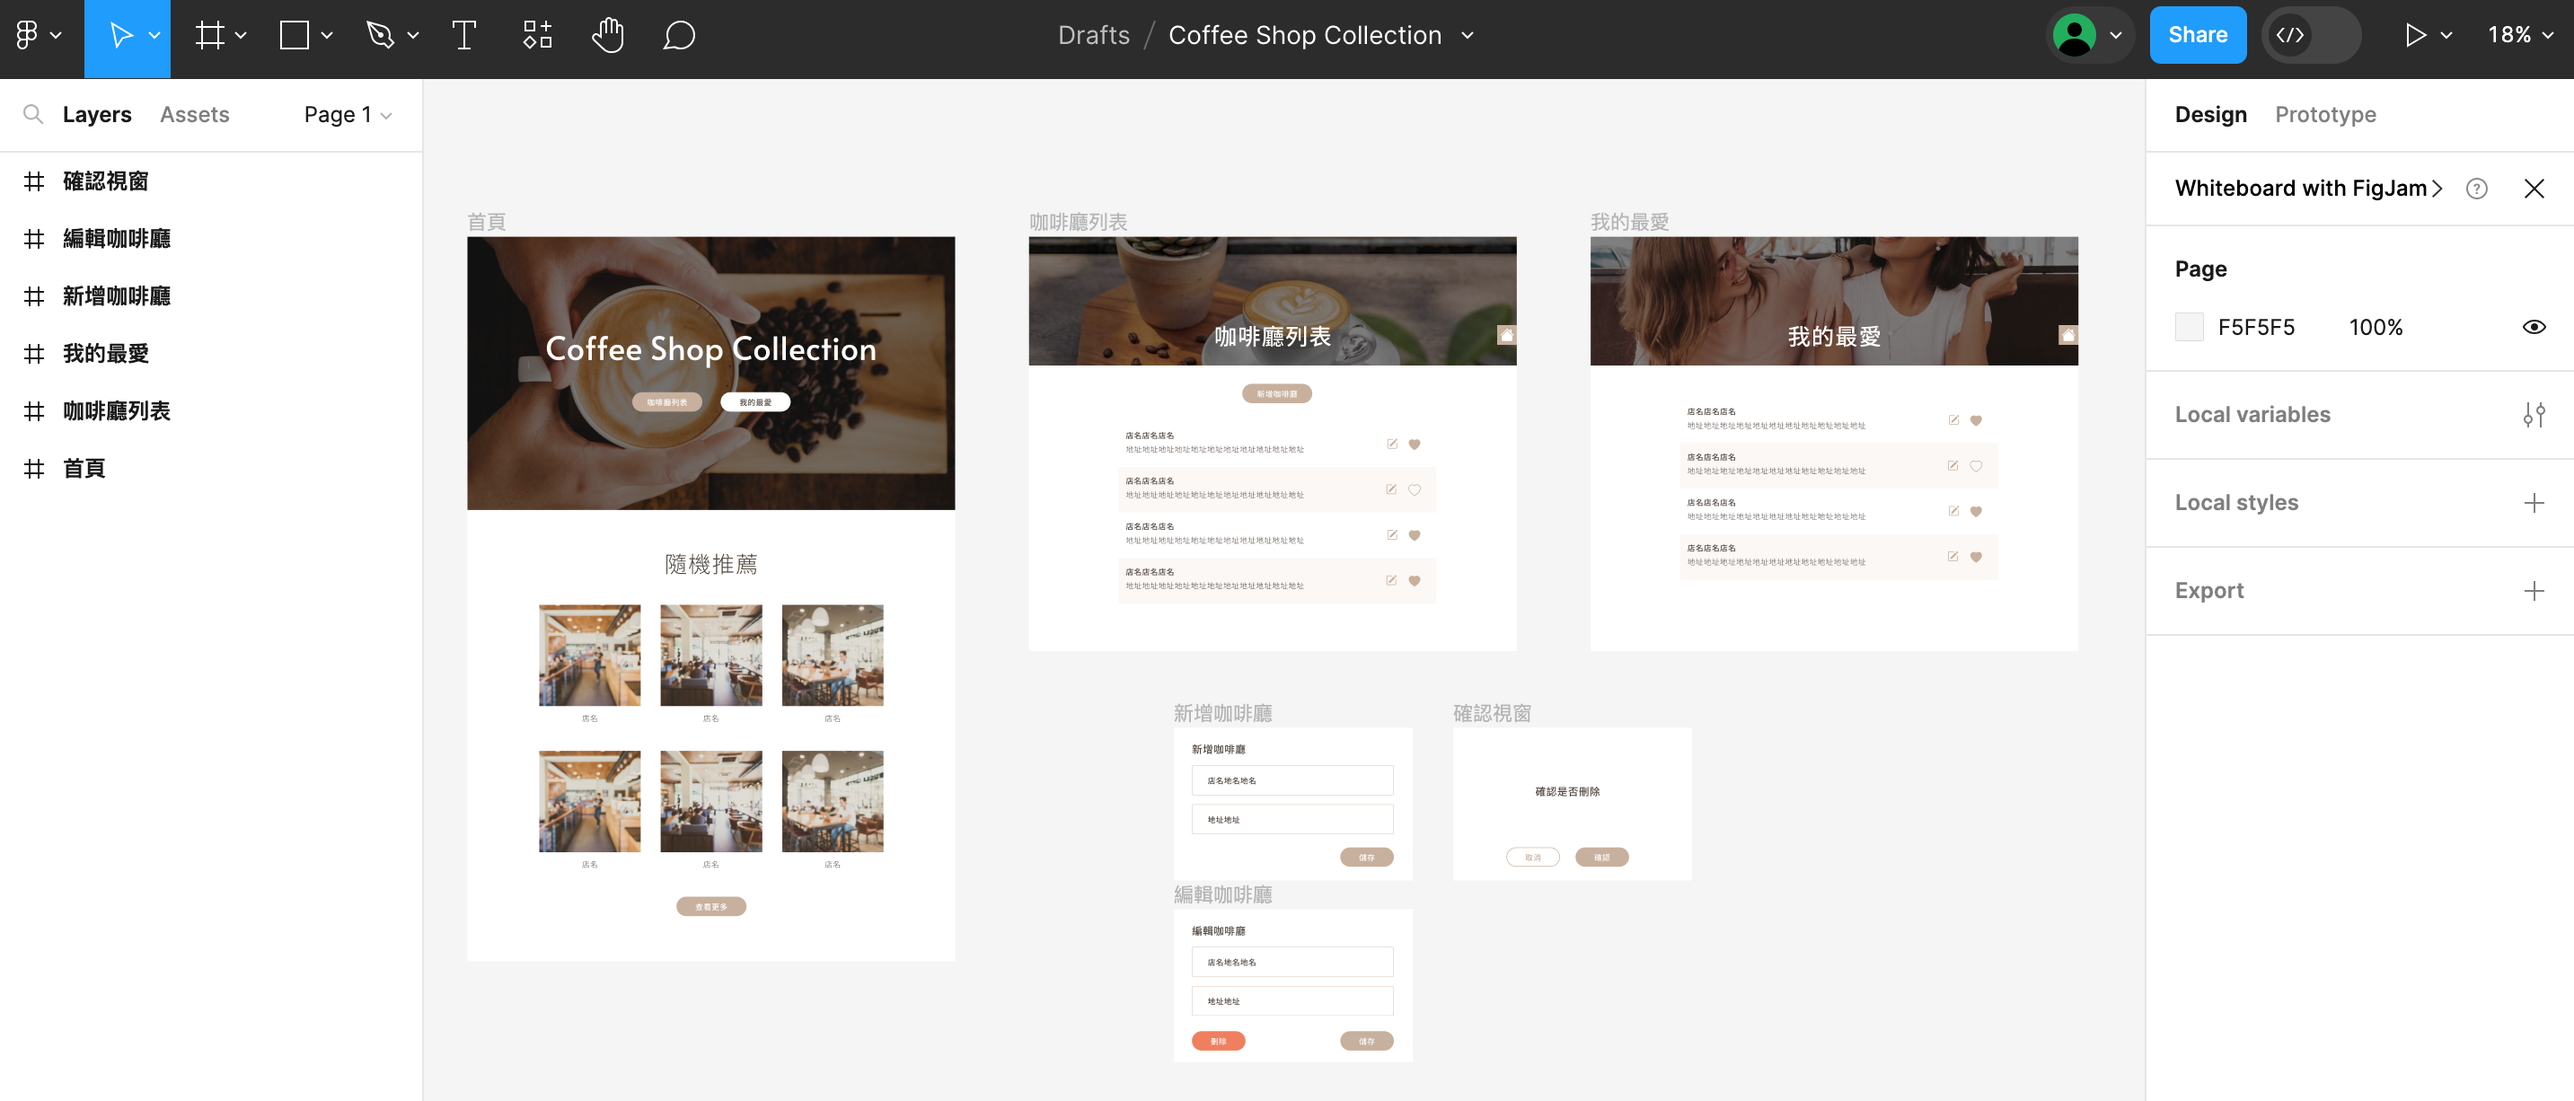
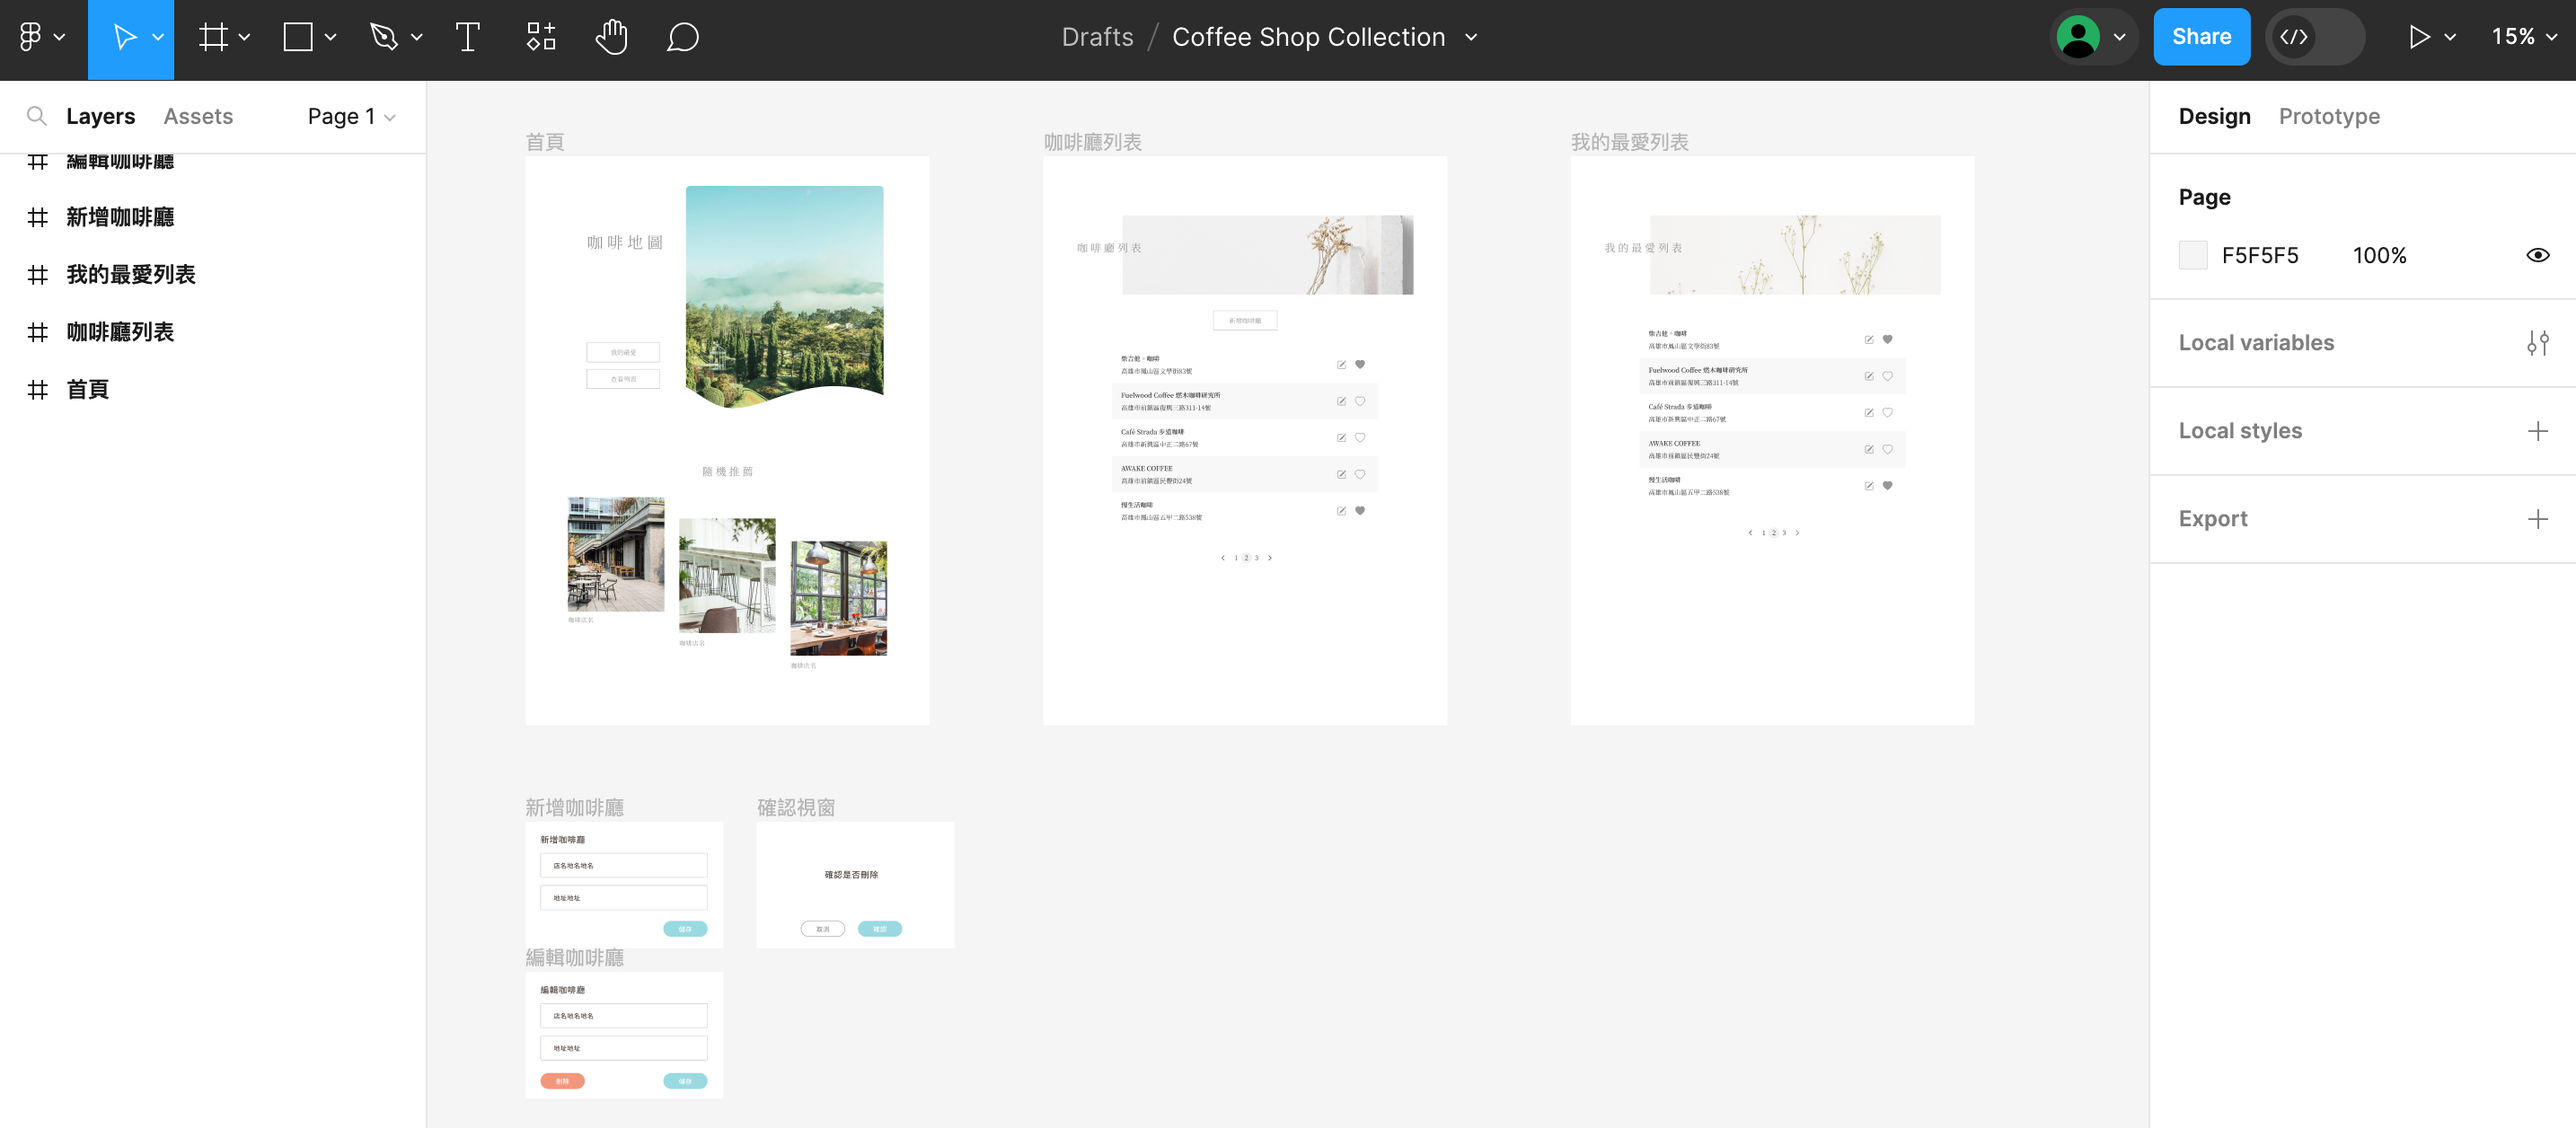
edit cafelist blog

diff --git a/src/components/NewPost/index.module.css b/src/components/NewPost/index.module.css
@@ -9,8 +9,8 @@
   width: 100%;
 }
 .banner img{
-  border-radius: 15px;
-  box-shadow: rgba(84, 83, 81, 0.2) 2px 2px 20px;
+  /* border-radius: 15px; */
+  /* box-shadow: rgba(84, 83, 81, 0.2) 2px 2px 20px; */
   cursor: pointer;
 }
 .banner:hover{
@@ -21,10 +21,10 @@
 }
 .title {
   font-size: 3rem;
-  font-style: italic;
+  /* font-style: italic; */
   font-weight: 900;
   color: #333;
-  text-shadow: #dddddd 3px 3px 0px;
+  /* text-shadow: #dddddd 3px 3px 0px; */
   /* animation: color-change 1s infinite alternate;
   animation-timing-function:step-start; */
 }

diff --git a/src/components/NewPost/index.js b/src/components/NewPost/index.js
@@ -6,7 +6,7 @@ export default function NewPost() {
   return (
     <>
       <section className={styles.container}>
-        <label className={styles.title}>New Post</label>
+        <label className={styles.title}>\ New Post /</label>
         <section className={styles.flexContainer}>
             <div className={styles.banner}>
                 <Link to="/blog/proj_5">

diff --git a/config/blog.js b/config/blog.js
@@ -8,7 +8,7 @@ module.exports = [
   },
   {
     slug: "proj_5",
-    title: "咖啡廳搜尋網頁",
+    title: "咖啡地圖",
     test_image: "/portfolio/img/cover/cafelist_01.jpg",
     tags: ["資料庫設計", "前端程式", "UI/UX設計", "網頁設計"],
     url: "/blog/proj_5",

diff --git a/blog/2023-06-25-CafeList/index.md b/blog/2023-06-25-CafeList/index.md
@@ -1,6 +1,6 @@
 ---
 slug: proj_5
-title: 咖啡廳搜尋網頁
+title: 咖啡地圖
 test_image: /portfolio/img/cover/cafelist_01.jpg
 banner_img: /portfolio/img/banner/cafelist_06.jpg
 tags: [資料庫設計, 前端程式, UI/UX設計, 網頁設計]
@@ -430,7 +430,7 @@ none
 
 ### 3.Figma 介面設計
 
-[Prototype](https://www.figma.com/proto/f3UUqy0fe4K9HYat19EWMl/Coffee-Shop-Collection?type=design&node-id=1-2&t=gpzmHeeV3s1FqivL-1&scaling=scale-down&page-id=0%3A1&starting-point-node-id=1%3A2&mode=design)
+[Prototype](https://www.figma.com/proto/f3UUqy0fe4K9HYat19EWMl/Coffee-Shop-Collection?type=design&node-id=101-36&t=AkgEI8XZUd88avwd-0&scaling=scale-down&page-id=0%3A1)
 
 ![figma](./figma.png)
 
@@ -452,7 +452,7 @@ mySql+node.js
 
 ### 5.前端撰寫
 
-**（1）Component 設計**
+<!-- **（1）Component 設計**
 
 <div style={{width:70+'%'}}>
 
@@ -501,6 +501,22 @@ mySql+node.js
 ![component_3](./component_3.png)
 
 </div>
+
+- **列表 Component**
+
+  > | props name | type                     | default | description  |
+  > | ---------- | ------------------------ | ------- | ------------ |
+  > | title      | string                   | -       | 咖啡廳名稱   |
+  > | address    | string                   | -       | 咖啡廳地址   |
+  > | striped    | string(colored or light) | -       | 列表顏色分隔 |
+
+- **列表按鈕 Component**
+
+  > | props name | type   | default | description |
+  > | ---------- | ------ | ------- | ----------- |
+  > | icon       | string | -       | icon 名稱   | -->
+
+![frontend_intro](./frontend_intro_1.jpg)
 
 - **列表 Component**
 
